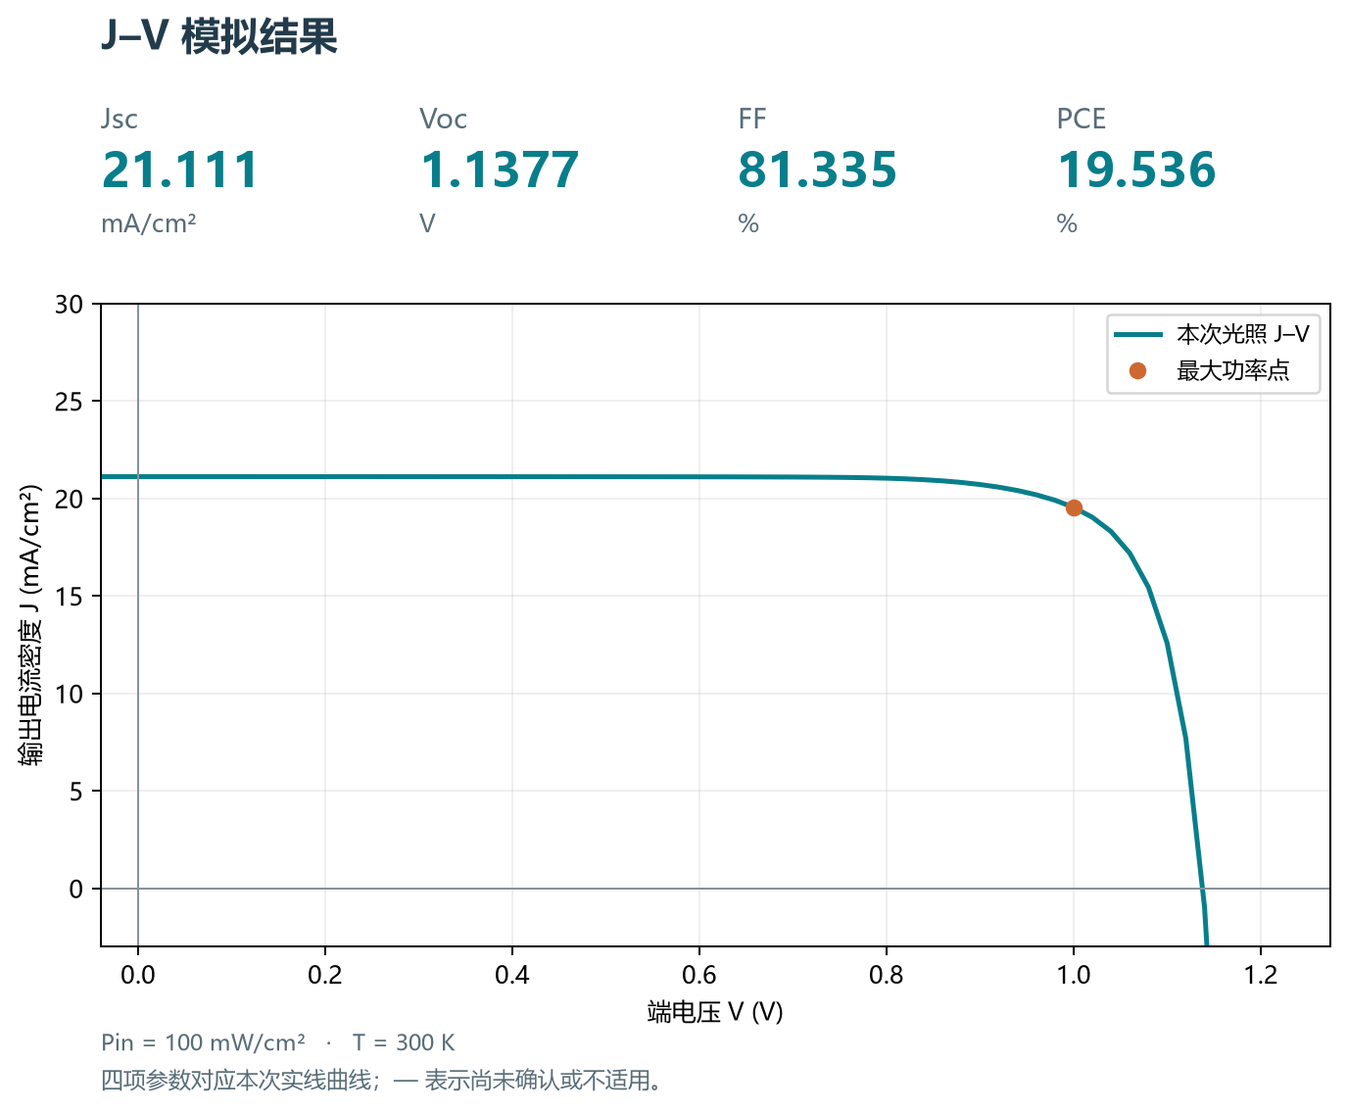
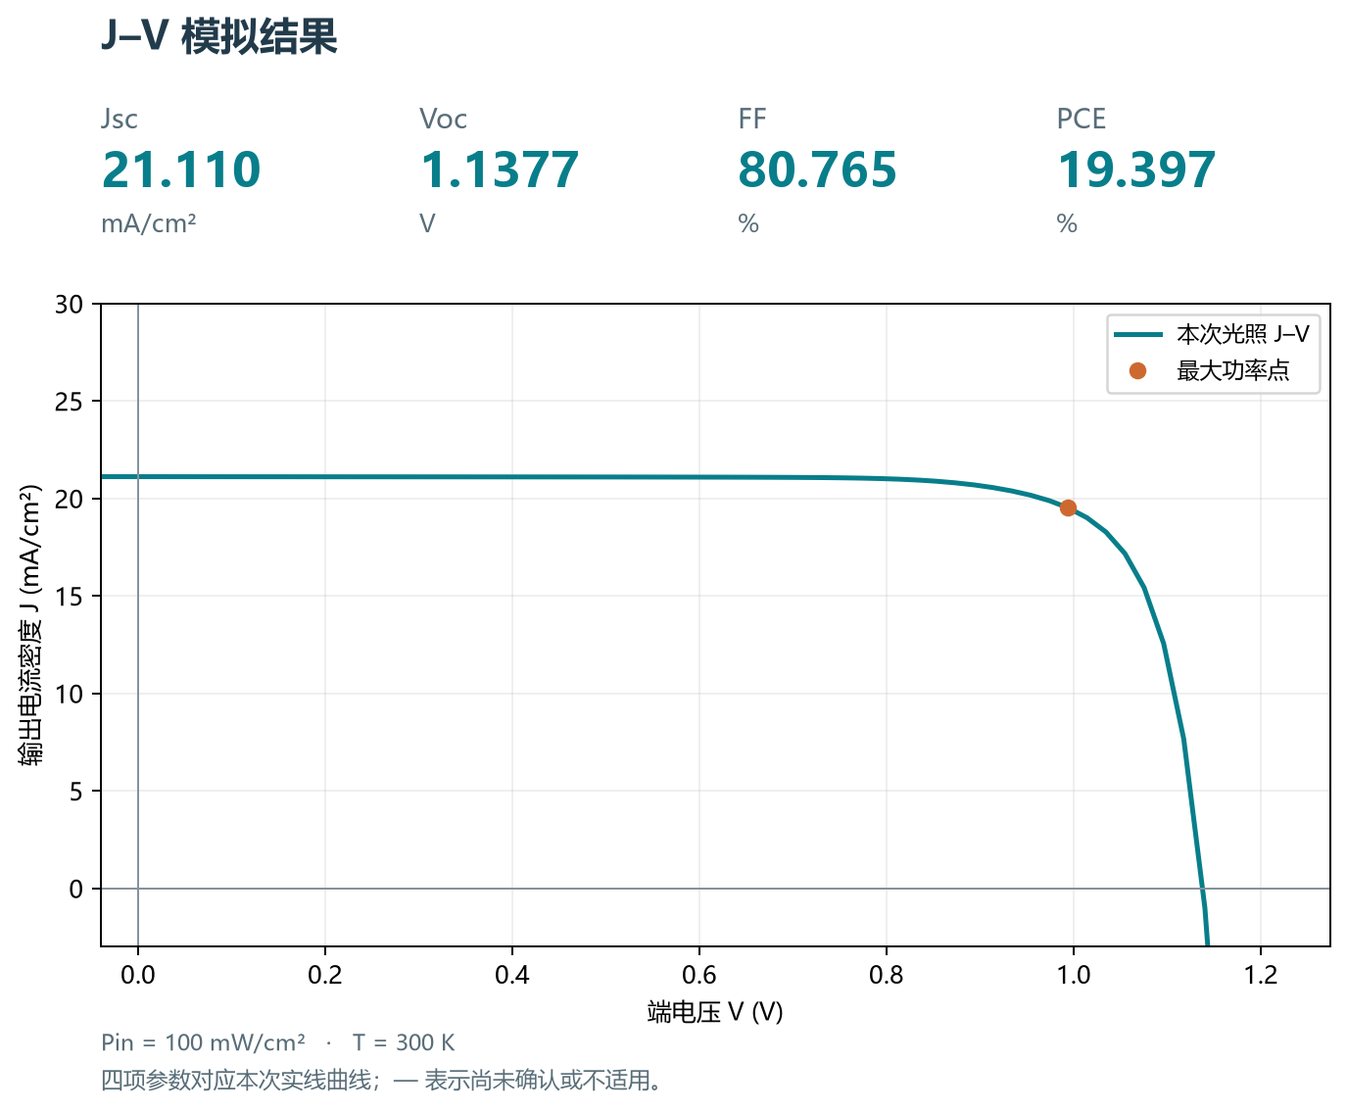
Update resistance defaults and keep simulation settings collapsed

diff --git a/performance.py b/performance.py
@@ -18,6 +18,7 @@ import time
 import uuid
 
 import numpy as np
+from scipy.optimize import brentq
 
 from physics import normalize, profile, validate
 from optics import get_optics, default_nk, validate_optics, prepare_optical_files, integrate, optical_model
@@ -28,7 +29,7 @@ ENGINE_DIR = Path(getattr(sys, '_MEIPASS', Path(__file__).resolve().parent)) / '
 DEFAULT_SETTINGS = dict(T=300., left=5., right=4.1, left_anode=1,
                         G=3e21, pin=100., vmin=-.04, vmax=1.5, vstep=.02,
                         sn_left=0., sp_left=1e7, sn_right=1e7, sp_right=0.,
-                        rs=0., rsh=1e6, points=250, timeout=120, grading_slices=16)
+                        rs=0.3, rsh=4e4, points=250, timeout=120, grading_slices=16)
 EXTRA_FIELDS = [('Nt', '中性体陷阱浓度 Nt', 'cm⁻³'),
                 ('Et', '陷阱位置 Et − Ev', 'eV'),
                 ('B', '双分子复合系数 B', 'cm³/s'),
@@ -694,6 +695,44 @@ def _rewrite_setup(folder, replacements):
     path.write_text(text, encoding='ascii')
 
 
+def _eqe_short_circuit(folder, settings, cancel, started, context, guess=0.):
+    """Solve Vext = Vint + Rs*Jext = 0, retaining the actual series/shunt resistors."""
+    last_voltage, last_data = None, None
+    samples = {}
+    def evaluate(voltage):
+        nonlocal last_voltage, last_data
+        voltage = float(voltage)
+        if voltage not in samples:
+            _rewrite_setup(folder, dict(Vmin=voltage, Vmax=voltage))
+            data, _ = _run_engine(folder, settings, cancel, started, context=context)
+            if len(data) != 1:
+                raise RuntimeError('EQE 单工作点输出不匹配')
+            samples[voltage] = data
+            last_voltage, last_data = voltage, data
+        return float(samples[voltage]['Vext'][0])
+    guess = float(guess)
+    initial = evaluate(guess)
+    if abs(initial) <= 1e-10:
+        return last_data, guess
+    direction = -np.sign(initial)
+    step = max(.02, min(abs(initial), .2))
+    for _ in range(10):
+        other = guess+direction*step
+        residual = evaluate(other)
+        if initial*residual <= 0:
+            lo, hi = sorted((guess, other))
+            root = brentq(evaluate, lo, hi, xtol=1e-12, rtol=1e-12, maxiter=40)
+            if root != last_voltage:
+                # The retained profile must belong to the accepted root too.
+                samples.pop(root, None)
+                evaluate(root)
+            if abs(float(last_data['Vext'][0])) > 1e-9:
+                raise RuntimeError('EQE 端电压未达到短路条件，请检查电阻和接触设置')
+            return last_data, float(root)
+        step *= 2
+    raise RuntimeError('EQE 无法找到端电压为零的短路工作点，请检查电阻和接触设置')
+
+
 def run_eqe(layers, settings, cancel=None, progress=None):
     """Differential short-circuit EQE: background + a single 1-nm photon bin.
 
@@ -714,14 +753,15 @@ def run_eqe(layers, settings, cancel=None, progress=None):
         base = np.interp(grid, spectrum[:, 0], spectrum[:, 1])*1e9*eqe['background_scale']
         _rewrite_setup(folder, dict(Vmin=0, Vmax=0, Vstep=.01, outputRatio=1, varFile='OpticalProfile.dat'))
 
+        short_circuit_guess = 0.
         def solve_spectrum(irradiance, context):
+            nonlocal short_circuit_guess
             # Match the native rounded wavelength grid exactly: tiny positive
             # coordinate errors can make its linear interpolator miss a spike.
             np.savetxt(Path(folder)/'spectrum.txt', np.column_stack([grid*1e-9, irradiance]),
                        fmt=['%.9e', '%.16e'], header='lambda I', comments='')
-            data, _ = _run_engine(folder, settings, cancel, started, context=context)
-            if len(data) != 1 or abs(data['Vext'][0]) > 1e-10:
-                raise RuntimeError('EQE 短路工作点输出不匹配')
+            data, short_circuit_guess = _eqe_short_circuit(
+                folder, settings, cancel, started, context, guess=short_circuit_guess)
             p = np.atleast_1d(np.genfromtxt(Path(folder)/'OpticalProfile.dat', names=True))
             if len(p) != mesh['effective_points']+2 or not np.all(np.isfinite(p['G_ehp'])):
                 raise RuntimeError('EQE 光生分布不完整')

diff --git a/test_device_analysis.py b/test_device_analysis.py
@@ -5,6 +5,7 @@ import sys
 import tempfile
 import threading
 import unittest
+from unittest.mock import patch
 
 import numpy as np
 
@@ -13,6 +14,7 @@ from optics import effective_nk, nk_table, optical_model, HC_EV_NM, get_optics
 from performance import (DEFAULT_SETTINGS, ENGINE_DIR, SimulationCancelled, import_layers,
                          write_inputs, validate_device, run_simulation, run_eqe, loss_at_voltage,
                          _reverse_for_illumination, _rewrite_setup, _run_engine, integrate)
+from performance import _eqe_short_circuit
 from test_performance import values
 
 
@@ -71,6 +73,27 @@ class AnalysisInputs(unittest.TestCase):
             a.pop('interface')
             a.pop('optical_model')
         validate_device(self.layers, self.settings)
+
+    def test_eqe_external_short_circuit_with_nonzero_series_resistance(self):
+        # An independent linear device has Jext = J0 + conductance * Vint.
+        # Its terminal short circuit is analytic, and differs from Vint = 0.
+        settings = dict(self.settings, rs=.3, rsh=4e4)
+        rs_si, j0, conductance = settings['rs']*1e-4, -200., 2e4
+        def linear_device(folder, settings, cancel, started, context):
+            voltage = float(values(Path(folder)/'simulation_setup.txt')['Vmin'])
+            current = j0+conductance*voltage
+            data = np.array([(voltage+rs_si*current, current, 0.)],
+                            dtype=[('Vext', float), ('Jext', float), ('errJ', float)])
+            return data, ''
+        with tempfile.TemporaryDirectory() as folder:
+            (Path(folder)/'simulation_setup.txt').write_text('Vmin = 0\nVmax = 0\n', encoding='ascii')
+            with patch('performance._run_engine', side_effect=linear_device):
+                data, internal = _eqe_short_circuit(folder, settings, None, 0., 'test EQE')
+            self.assertAlmostEqual(internal, -rs_si*j0/(1+rs_si*conductance), places=10)
+            self.assertAlmostEqual(float(data['Jext'][0]), j0/(1+rs_si*conductance), places=8)
+            self.assertLess(abs(float(data['Vext'][0])), 1e-9)
+            self.assertEqual(settings['rs'], .3)
+            self.assertEqual(settings['rsh'], 4e4)
 
 
 @unittest.skipUnless(sys.platform == 'win32' and (ENGINE_DIR/'simss.exe').exists(), 'Windows SimSS required')
@@ -137,11 +160,11 @@ class NativeAnalysis(unittest.TestCase):
         layers[1]['Eg'] = 1.8
         high_gap = run_eqe(layers, settings)
         self.assertGreater(high_gap['EQE'][2], .1)
-        self.assertEqual(high_gap['EQE'][-2], 0)  # 700 nm below bandgap
+        self.assertAlmostEqual(high_gap['EQE'][-2], 0., places=10)  # 700 nm below bandgap; root-solve roundoff
         self.assertLess(max(e['numerical_error_estimate']), .01)
 
     def test_dark_eqe_matches_independent_single_wavelength_native_run(self):
-        settings = dict(self.settings, eqe=dict(step_nm=100, background_scale=0))
+        settings = dict(self.settings, rs=0., eqe=dict(step_nm=100, background_scale=0))
         e = run_eqe(self.layers, settings)
         lam = 500e-9
         flux = e['eqe_settings']['photon_flux_cm2_s']*1e4

diff --git a/test_performance_ui.py b/test_performance_ui.py
@@ -51,13 +51,18 @@ class PerformanceUI(unittest.TestCase):
 
     def test_real_background_run_exports_and_retained_result(self):
         p = self.page
+        self.assertFalse(p.settings_visible)
+        p.toggle_settings(True)
         p.settings['vmax'].set('1.25')
         p.run()
+        self.assertFalse(p.settings_visible)
         self.assertTrue(p.running)
         self.assertEqual(str(p.run_button['state']), 'disabled')
         self.wait_for_run()
         self.assertIsNotNone(p.result)
         self.assertGreater(p.result['metrics']['PCE'], 0)
+        self.assertFalse(p.settings_visible)
+        self.assertEqual(p.settings_tabs.winfo_manager(), '')
         with tempfile.TemporaryDirectory() as folder:
             csv = Path(folder)/'JV.csv'
             report = Path(folder)/'results.json'
@@ -95,20 +100,31 @@ class PerformanceUI(unittest.TestCase):
             p.run()
             self.wait_for_run()
         self.assertIs(p.result, latest)
+        self.assertFalse(p.settings_visible)
         p.run()
         p.cancel()
         self.wait_for_run()
         self.assertIs(p.result, latest)
+        self.assertFalse(p.settings_visible)
 
     def test_small_screen_and_gradient_roundtrip(self):
         p = self.page
+        from types import SimpleNamespace
+        self.assertFalse(p.settings_visible)
+        for height in (700, 400, 700):
+            p.resize_right(SimpleNamespace(width=900, height=height))
+            self.assertFalse(p.settings_visible)
         self.app.geometry('1024x650')
         self.app.update()
         self.assertGreater(p.canvas.get_tk_widget().winfo_height(), 100)
         self.assertLessEqual(p.footer.winfo_y()+p.footer.winfo_height(), p.winfo_height())
         self.assertGreaterEqual(p.run_button.winfo_height(), 45)
         self.assertEqual(float(p.settings['vstep'].get()), .02)
+        self.assertEqual(float(p.settings['rs'].get()), .3)
+        self.assertEqual(float(p.settings['rsh'].get()), 4e4)
         p.toggle_settings(True)
+        self.assertTrue(p.settings_visible)
+        p.resize_right(SimpleNamespace(width=900, height=700))
         self.assertTrue(p.settings_visible)
         p.vars['Eg_mode'].set('线性')
         p.vars['Eg_end'].set('3.1')
@@ -210,11 +226,13 @@ class PerformanceUI(unittest.TestCase):
                 p.export_csv()
             self.assertIn('interface_1_mA_cm2', path.read_text())
             p.run_eqe()
+            self.assertFalse(p.settings_visible)
             self.assertEqual(str(p.run_button['state']), 'disabled')
             self.wait_for_run()
             self.assertIs(p.result, jv)
             self.assertEqual(p.metric_vars['PCE'].get(), metric)
             self.assertEqual(p.plot_view.get(), 'EQE')
+            self.assertFalse(p.settings_visible)
             e = p.eqe_result
             path = Path(folder)/'eqe.csv'
             with patch('performance_page.filedialog.asksaveasfilename', return_value=str(path)):

diff --git a/performance_page.py b/performance_page.py
@@ -210,15 +210,14 @@ class PerformancePage(ttk.Frame):
 
         self.settings_header = ttk.Frame(right)
         self.settings_header.pack(fill='x')
-        self.settings_toggle = ttk.Button(self.settings_header, text='模拟设置 ▴', width=11, command=self.toggle_settings)
+        self.settings_toggle = ttk.Button(self.settings_header, text='模拟设置 ▾', width=11, command=self.toggle_settings)
         self.settings_toggle.pack(side='left', pady=(0, 3))
         self.mode_badge = tk.StringVar(value='AM1.5G · TMM 光学耦合')
         ttk.Label(self.settings_header, textvariable=self.mode_badge, foreground='#536c7c').pack(side='left', padx=8)
-        self.settings_visible = True
+        self.settings_visible = False
         self.compact = None
         settings_tabs = ttk.Notebook(right, height=150)
         self.settings_tabs = settings_tabs
-        settings_tabs.pack(fill='x')
         self.settings = {}
         groups = [
             ('光照与扫描', [('T', '温度', 'K'), ('G', '吸收层均匀光生率 G', 'cm⁻³·s⁻¹'),
@@ -524,10 +523,8 @@ class PerformancePage(ttk.Frame):
     def resize_right(self, event):
         for widget in (self.mpp_label, self.comparison_label, self.analysis_label):
             widget.configure(wraplength=max(200, event.width-20))
-        compact = event.height < 500
-        if compact != self.compact:
-            self.compact = compact
-            self.toggle_settings(not compact)
+        # Resizing after results arrive must not override the user's fold state.
+        self.compact = event.height < 500
 
     def loss_row_limit(self):
         return max(2, min(8, (self.canvas.get_tk_widget().winfo_height()-100)//24))
@@ -733,8 +730,7 @@ class PerformancePage(ttk.Frame):
             return
         self.task_kind = 'jv'
         self.set_running(True)
-        if self.compact:
-            self.toggle_settings(False)
+        self.toggle_settings(False)
         self.cancel_event = threading.Event()
         self.status.set('SimSS 正在后台计算… 上次结果保留至本次成功；可切换能带页或取消。')
         self.progress = ttk.Progressbar(self.footer, mode='indeterminate')
@@ -765,8 +761,7 @@ class PerformancePage(ttk.Frame):
             return
         self.task_kind = 'eqe'
         self.set_running(True)
-        if self.compact:
-            self.toggle_settings(False)
+        self.toggle_settings(False)
         self.cancel_event = threading.Event()
         self.status.set('正在计算 EQE 基线… J–V 与已有 EQE 结果保留至本次成功。')
         self.progress = ttk.Progressbar(self.footer, mode='determinate')

diff --git a/app_info.py b/app_info.py
@@ -1,4 +1,4 @@
 """Shared product identity."""
 APP_NAME = '钙钛矿器件模拟工作台'
 APP_ENGLISH_NAME = 'Perovskite Device Studio'
-APP_VERSION = '1.3.1'
+APP_VERSION = '1.3.2'

diff --git a/README.md b/README.md
@@ -2,9 +2,9 @@
 
 <img src="assets/logo.png" width="96" alt="钙钛矿器件模拟工作台图标">
 
-Python / Windows 桌面工具，将能带分析和器件性能模拟整合到两个独立页面。能带页查看真空参考排列、自洽热平衡能带、电场与载流子浓度；性能页用 SimSS 计算均匀或渐变器件的稳态 J–V、Jsc、Voc、FF、PCE。版本 **1.3.1**。
+Python / Windows 桌面工具，将能带分析和器件性能模拟整合到两个独立页面。能带页查看真空参考排列、自洽热平衡能带、电场与载流子浓度；性能页用 SimSS 计算均匀或渐变器件的稳态 J–V、Jsc、Voc、FF、PCE。版本 **1.3.2**。
 
-1.3.1 更新：J–V 与 EQE 的 226 异常有限恢复、固定位置求解器副本、完整失败诊断，以及包含曲线和 Jsc、Voc、FF、PCE 的 J–V 图片与数据导出。保留界面陷阱复合、吸收边联动、损失分析、EQE、AM1.5G、自定义光谱与 n,k、手动 G、渐变参数和成功结果快照。详见 [更新记录](CHANGELOG.md)。
+1.3.2 更新：默认串联电阻改为 0.3 Ω·cm²、并联电阻改为 4×10⁴ Ω·cm²，修复非零串联电阻下的 EQE 短路工作点，并让模拟设置在运行前后保持折叠。保留 226 异常有限恢复、固定位置求解器副本、失败诊断、曲线与四参数导出，以及界面复合、损失分析、光谱与渐变模拟。详见 [更新记录](CHANGELOG.md)。
 
 ![能带模拟页面](preview_band_studio.png)
 
@@ -12,7 +12,7 @@ Python / Windows 桌面工具，将能带分析和器件性能模拟整合到两
 
 Windows 打包版：双击 `dist/PerovskiteDeviceStudio.exe`，无需安装 Python 或 SimSS。可单独复制 EXE 到其他 Windows 64 位电脑运行。旧版 `PerovskiteBandTool.exe` 不再作为当前版本入口。
 
-[下载 Windows 1.3.1 单文件版](https://github.com/mumium/perovskite-band-tool/releases/download/v1.3.1/PerovskiteDeviceStudio.exe) · [下载文件夹版 ZIP](https://github.com/mumium/perovskite-band-tool/releases/download/v1.3.1/PerovskiteDeviceStudio-1.3.1-portable.zip) · [版本发布页](https://github.com/mumium/perovskite-band-tool/releases/tag/v1.3.1)
+[下载 Windows 1.3.2 单文件版](https://github.com/mumium/perovskite-band-tool/releases/download/v1.3.2/PerovskiteDeviceStudio.exe) · [下载文件夹版 ZIP](https://github.com/mumium/perovskite-band-tool/releases/download/v1.3.2/PerovskiteDeviceStudio-1.3.2-portable.zip) · [版本发布页](https://github.com/mumium/perovskite-band-tool/releases/tag/v1.3.2)
 
 重新打包：安装项目依赖及 `pyinstaller`，再运行 `build_exe.bat`。程序为单文件无控制台版本，首次启动需要解压运行依赖，可能稍慢。
 
@@ -22,7 +22,7 @@ Windows 打包版：双击 `dist/PerovskiteDeviceStudio.exe`，无需安装 Pyth
 
 1. 在能带页设好器件后，点击性能页「从能带页导入参数」。导入复制层顺序、材料参数、温度和电极功函数，按最小带隙初选吸收层，并按功函数初选电极方向和选择性接触；请自行核对。后续修改不会自动同步到另一页。
 2. 逐层检查左侧「材料」，勾选「本层产生光生载流子」。未勾选层仍参与光学吸收和干涉，但不产生自由载流子。「光学」选择本层 n,k、导入数据及吸收边联动模式；初始 PTAA/MAPI/C60 仅为示例映射。「渐变」编辑 Eg、Nd、Na、χ 的模式与右端值。「界面」设置本层与右侧材料之间的陷阱，Nt=0 关闭。
-3. 在右侧「光谱与光学」选择光谱 TMM 或手动 G。新页面默认 AM1.5G、左侧入射、300–800 nm，**入射基底 ITO、前透明电极 ITO/200 nm、背电极 Ag/100 nm**；可自行修改。「光照与扫描」设置完整入射功率密度和电压，默认 -0.04 至 1.5 V、步长 **0.02 V**。「电极与电阻」设置功函数、接触速度、阳极方向与电阻；「计算设置」设置网格、超时和渐变分段数（默认 16）。小屏幕默认收起模拟设置，点击「模拟设置 ▾」展开；表单支持滚动。
+3. 在右侧「光谱与光学」选择光谱 TMM 或手动 G。新页面默认 AM1.5G、左侧入射、300–800 nm，**入射基底 ITO、前透明电极 ITO/200 nm、背电极 Ag/100 nm**；可自行修改。「光照与扫描」设置完整入射功率密度和电压，默认 -0.04 至 1.5 V、步长 **0.02 V**。「电极与电阻」设置功函数、接触速度、阳极方向与电阻；「计算设置」设置网格、超时和渐变分段数（默认 16）。模拟设置默认折叠，J–V / EQE 开始时收起，完成、失败、取消后保持折叠；点击「模拟设置 ▾」可手动展开，表单支持滚动。
 4. 点击顶部青色「▶ 运行 J–V 模拟」。计算在后台运行，可取消或切换页面。完成后显示 J–V、Jsc、Voc、FF、效率及最大功率点；图表选项可切换「入射光谱」「光生分布」「损失分析」。默认聚焦光伏区域，勾选「完整扫描」查看全部点。第二次成功计算后自动叠加前次曲线、显示指标差值，可取消「上次结果」或「清除对照」。EQE 使用单独的「运行 EQE」按钮。
 5. 顶部「打开参数／保存参数」使用独立性能 JSON，不影响能带项目格式；「导出结果」菜单输出当前视图 CSV、完整结果 JSON、PNG/SVG。结果 JSON 包含输入、光谱、n,k 数据及指纹、G(x)、曲线、指标、警告、离散子层和日志。自定义 CSV 数据内嵌在参数项目中，移动电脑不需另带源文件。**修改输入、导入或打开项目均保留上次成功结果**；运行中、失败或取消时也保留。只有新计算成功才更新。导出对应成功结果的输入快照。
 
@@ -80,6 +80,7 @@ EQE 与 J–V 各自保存最近成功快照；**四项指标始终属于最近 
 - 渐变层按指定数量拆为薄子层，端点采样子层为半宽，保留总厚度和接触端精确参数；均匀层不拆分。虚拟子层界面不添加陷阱复合，并按求解器实际网格间距设置 `ν=μ·Vt/Δx`，维持原材料体迁移率；用户填写的界面传输速度只用于真实材料界面。
 - 渐变模拟是分段近似，默认 16 段；建议比较 8、16、32 段及更密空间网格的结果，确认指标稳定。不是任意梯度下的精确连续解；强梯度仍可能不收敛。总子层数上限 120，网格不足时自动增大并提示，最多 2000 点；超过限制须减少分段数或材料层数。结果 JSON 保存实际分段与网格设置，便于复现。
 - 公共输入仍使用 nm、eV、cm⁻³、cm²/(V·s)、s；新增 G 为 cm⁻³·s⁻¹、B 为 cm³/s、接触与界面传输速度为 cm/s，串并联电阻为面积归一化电阻 Ω·cm²。适配器统一转换为 SI。能级转换为 SimSS 的真空以下正数深度：Ec=χ，Ev=χ+Eg。
+- 新页面默认串联电阻 **Rs=0.3 Ω·cm²**、并联电阻 **Rsh=4×10⁴ Ω·cm²**。已有参数文件按其中保存的值加载。EQE 在包含实际串并联电阻的端电压 Vext=0 条件下计算，非零 Rs 时自动求相应内部电压。
 - 单能级中性体 SRH 陷阱：输入 Nt 和价带以上的陷阱位置 Et−Ev（0 至本层最小 Eg），使用电子、空穴寿命换算捕获系数 `Cn=1/(τn·Nt)`、`Cp=1/(τp·Nt)`。固定寿命时改变非零 Nt 不改变此稳态中性 SRH 复合；Nt=0 时关闭体 SRH。默认位置为导入时左端带隙中点；渐变时 Et−Ev 在各子层保持相同的输入值，并不自动沿局部带隙取中点。
 - 可设置双分子复合 B、真实界面陷阱浓度/能级/类型/捕获系数；体陷阱仍为单能级中性模型，不含离子迁移。内部界面传输速度与陷阱复合为不同输入；最后一层的右界面数值不使用。接触速度 0 表示阻挡相应载流子。
 - 电流以正号表示发电。Jsc 在端电压 0 V 插值，Voc 从电流过零点插值，最大功率点在分段线性 J–V 上计算；`FF=100·Pmax/(Voc·Jsc)`、`PCE=100·Pmax/Pin`，功率密度单位 mW/cm²。结果精度受电压步长影响，可缩小步长后比较。
@@ -95,7 +96,7 @@ EQE 与 J–V 各自保存最近成功快照；**四项指标始终属于最近 
 
 运行 `python -m unittest discover -p "test_*.py"` 可检查原能带功能、单位转换、SRH 映射、指标提取，以及真实 SimSS 的暗态零偏压、光生电流参考、网格稳定性、寿命敏感性、渐变分段收敛、虚拟界面体迁移率、页面独立性、结果保留与对照、小屏幕布局、后台计算与导出。光学测试覆盖标准光谱功率、SI 转换、无吸收极限、光子预算、光照功率缩放、左右入射镜像、自定义数据迁移与光谱/G(x) 导出。
 
-1.3.1 版本共 61 项测试通过，包括真实界面复合及镜像映射、带隙—光生联动、损失工作点、EQE 与独立单色光计算对照、探测通量稳定性、零吸收极限、两类成功快照的保留与导出，以及 226 有限恢复、诊断保留和求解器副本校验。
+1.3.2 版本共 62 项测试，包括真实界面复合及镜像映射、带隙—光生联动、损失工作点、EQE 与独立单色光计算对照、非零串联电阻的端电压短路条件、探测通量稳定性、零吸收极限、成功快照与导出、226 有限恢复、诊断保留和求解器副本校验。
 
 ## 能带分析与读数
 

diff --git a/CHANGELOG.md b/CHANGELOG.md
@@ -1,5 +1,11 @@
 # 更新记录
 
+## 1.3.2 · 2026-10-15
+
+- 模拟设置默认折叠；J–V / EQE 开始时收起，成功、失败、取消以及结果布局变化均不自动展开，仍可手动展开修改。
+- 新建性能页面默认串联电阻 Rs 改为 0.3 Ω·cm²、并联电阻 Rsh 改为 4×10⁴ Ω·cm²；已有参数文件中的显式设置不变。
+- 修复非零串联电阻下的 EQE 短路工作点：以端电压 Vext=0 求解内部电压，保留实际串并联电阻，不再将 Vint=0 直接当作短路。相邻波长复用电压初值，沿用总超时、取消及 226 恢复机制。
+
 ## 1.3.1 · 2026-10-15
 
 - J–V 导出 PNG/SVG 同时包含曲线及 Jsc、Voc、FF、PCE，固定报告尺寸，不受窗口大小影响；参数取自同一成功结果快照。CSV 新增四项参数列，未确认值为 NaN；完整 JSON 保留曲线及参数。
